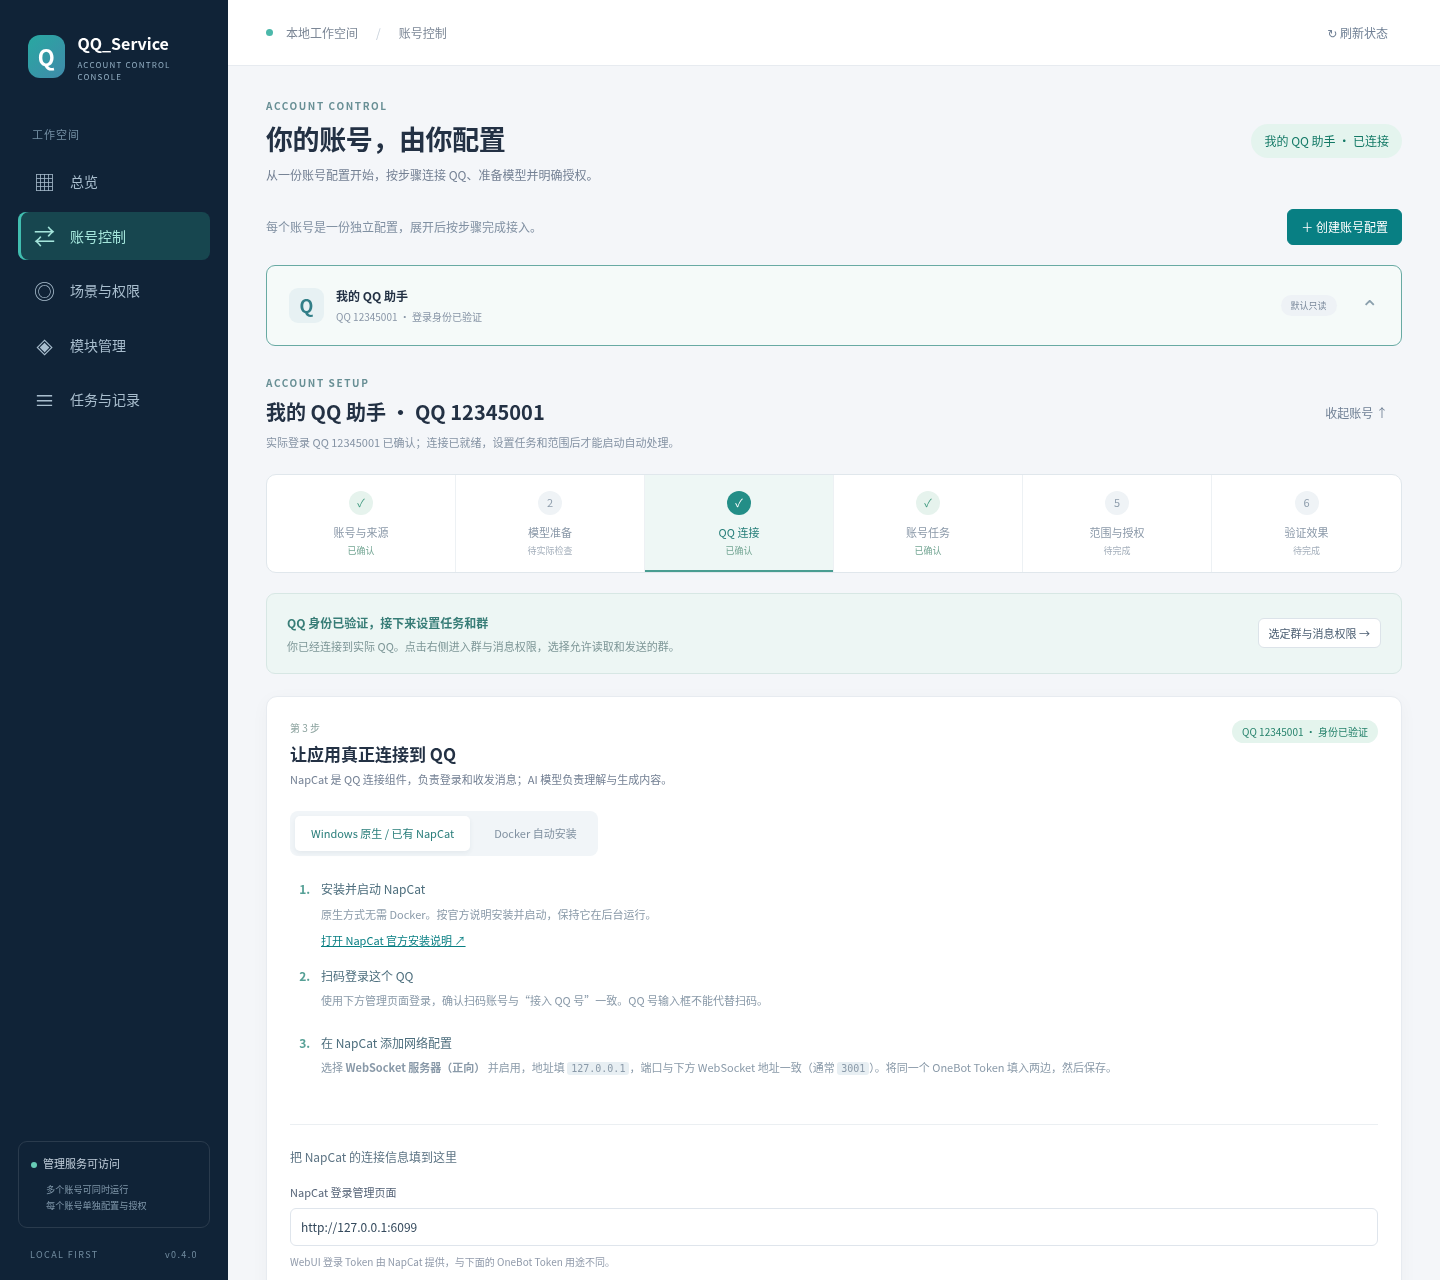
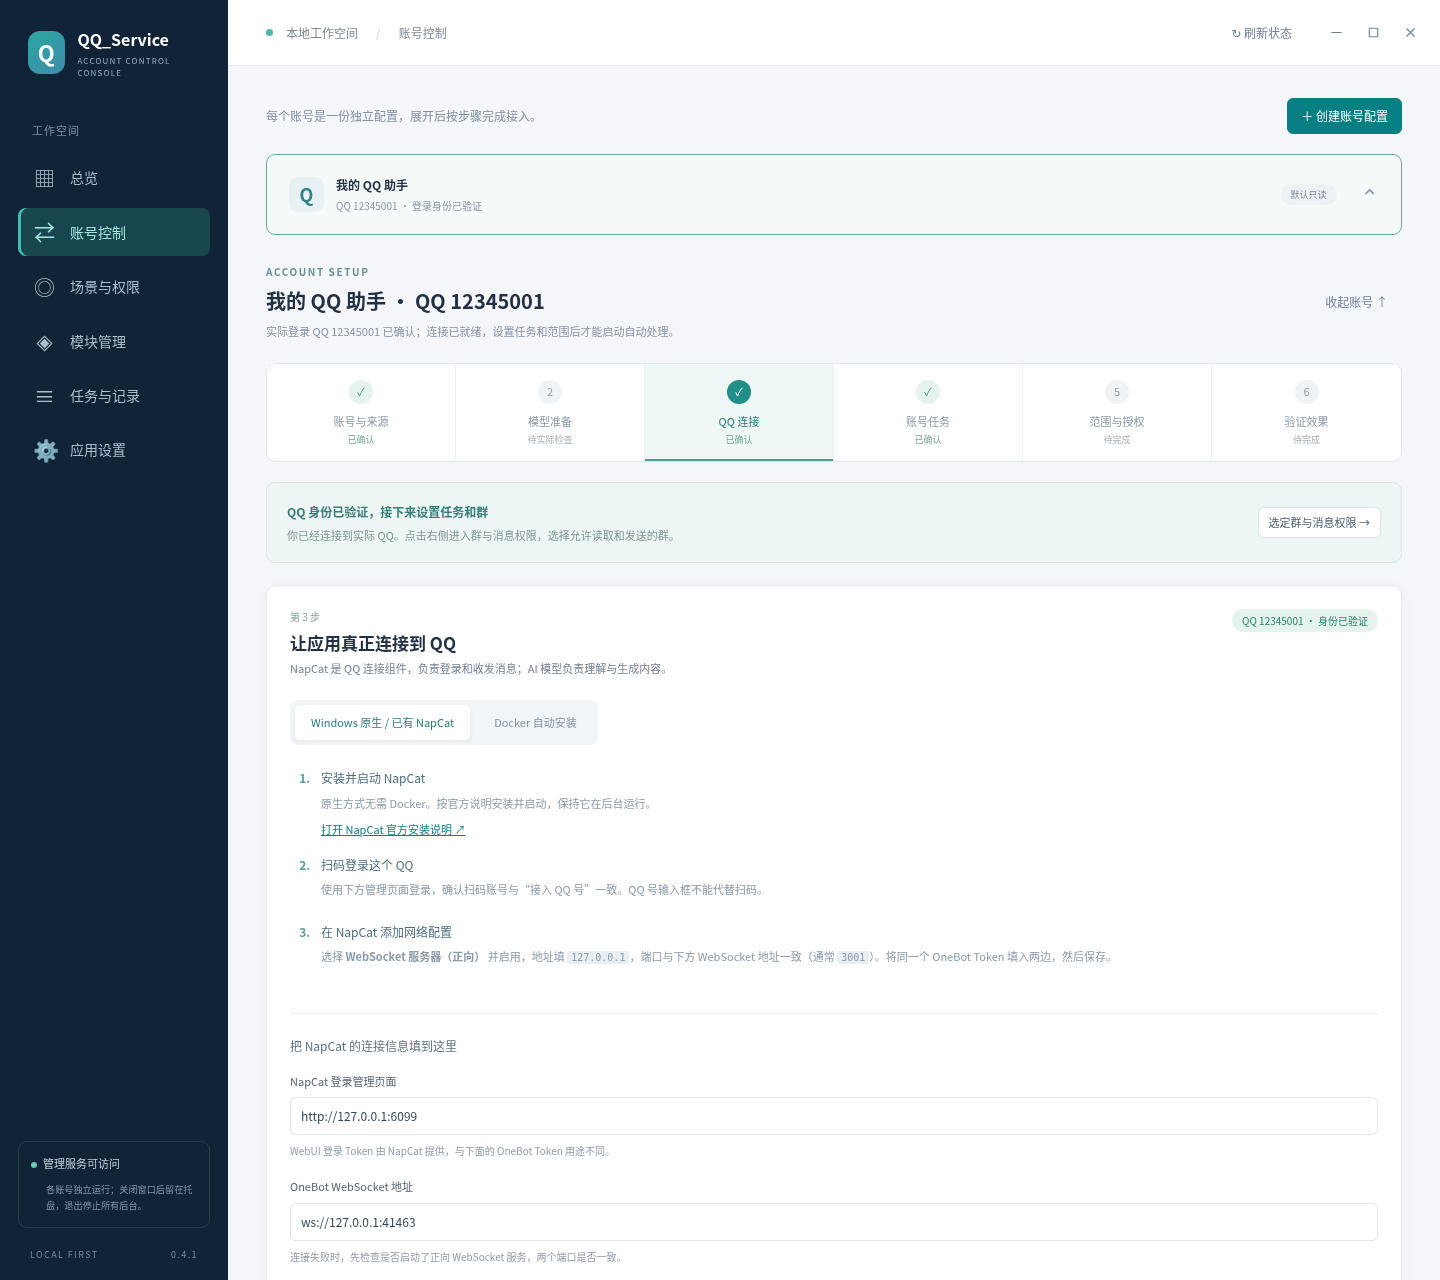
fix: remove account and settings page headings

diff --git a/public/index.html b/public/index.html
@@ -21,7 +21,7 @@
       <button class="nav-link hidden" data-page="settings" id="desktop-settings-nav"><span aria-hidden="true">⚙</span>应用设置</button>
     </nav>
     <div class="sidebar-note"><span class="status-dot" id="server-dot"></span><span id="server-label">连接管理服务中</span><small>多个账号可同时运行<br>每个账号单独配置与授权</small></div>
-    <div class="sidebar-version">LOCAL FIRST <span>v0.4.0</span></div>
+    <div class="sidebar-version">LOCAL FIRST <span>v0.4.1</span></div>
   </aside>
   <div class="main-shell">
     <header class="topbar"><div class="window-drag-zone"><span class="workspace-indicator"></span>本地工作空间 <span class="topbar-separator">/</span> <span id="page-caption">总览</span></div><div class="topbar-actions"><button class="button button-quiet" id="refresh-state">↻ 刷新状态</button><div id="window-controls" class="window-controls hidden" aria-label="窗口控制"><button id="window-minimize" aria-label="最小化" title="最小化"><svg viewBox="0 0 16 16" aria-hidden="true"><path d="M3 8h10"/></svg></button><button id="window-maximize" aria-label="最大化" title="最大化"><svg viewBox="0 0 16 16" aria-hidden="true"><rect x="3.5" y="3.5" width="9" height="9" rx="1"/></svg></button><button id="window-quit" aria-label="退出应用" title="退出应用"><svg viewBox="0 0 16 16" aria-hidden="true"><path d="m4 4 8 8M12 4l-8 8"/></svg></button></div></div></header>

diff --git a/public/app.js b/public/app.js
@@ -477,6 +477,7 @@
   }
   function renderPageContext() {
     const isAccountPage = currentPage === 'connections' || currentPage === 'settings';
+    $('.page-heading').classList.toggle('hidden', isAccountPage);
     $('.account-context').classList.toggle('hidden', isAccountPage);
     $('.config-bar').classList.toggle('hidden', isAccountPage);
     $('#no-accounts').classList.toggle('hidden', accounts.length !== 0 || isAccountPage);

diff --git a/docs/USAGE.md b/docs/USAGE.md
@@ -2,11 +2,11 @@
 
 [返回首页](../README.md) · [功能实现与架构](ARCHITECTURE.md) · [Windows 原生 NapCat](NATIVE_NAPCAT_WINDOWS.md)
 
-本指南对应 v0.4.0。首次使用按一个账号的六步引导操作：**账号与来源 → 模型准备 → QQ 连接 → 账号任务 → 范围与授权 → 验证效果**。多个账号可以同时运行；切换界面不会改变正在执行任务的所属账号。
+本指南对应 v0.4.1。首次使用按一个账号的六步引导操作：**账号与来源 → 模型准备 → QQ 连接 → 账号任务 → 范围与授权 → 验证效果**。多个账号可以同时运行；切换界面不会改变正在执行任务的所属账号。
 
 ## 1. 打开应用，创建账号
 
-从 [Release](https://github.com/klwb360/QQ_Service/releases/latest) 下载 `QQ_Service-0.4.0-Windows-x64.exe`，放在普通文件夹，例如 `D:\Apps\QQ_Service`，双击打开。适用于 Windows 10/11 x64，自带 Node.js 和 npm。便携 EXE 首次展开可能较慢；当前未签名，Windows 可能显示发布者未知或 SmartScreen 提示。
+从 [Release](https://github.com/klwb360/QQ_Service/releases/latest) 下载 `QQ_Service-0.4.1-Windows-x64.exe`，放在普通文件夹，例如 `D:\Apps\QQ_Service`，双击打开。适用于 Windows 10/11 x64，自带 Node.js 和 npm。便携 EXE 首次展开可能较慢；当前未签名，Windows 可能显示发布者未知或 SmartScreen 提示。
 
 窗口使用应用内标题栏，可最小化、最大化或关闭；原生菜单栏已移除。可在「设置」选择关闭按钮的行为：**默认最小化到托盘**继续运行，也可改为完全退出；这是所有账号共用的应用设置。托盘始终提供完全退出入口；无法创建托盘时，关闭会退出。重复双击会唤起已有窗口。后台只在本机运行；休眠、关机或完全退出时不采集新消息，也不补跑错过的定时汇总。
 
